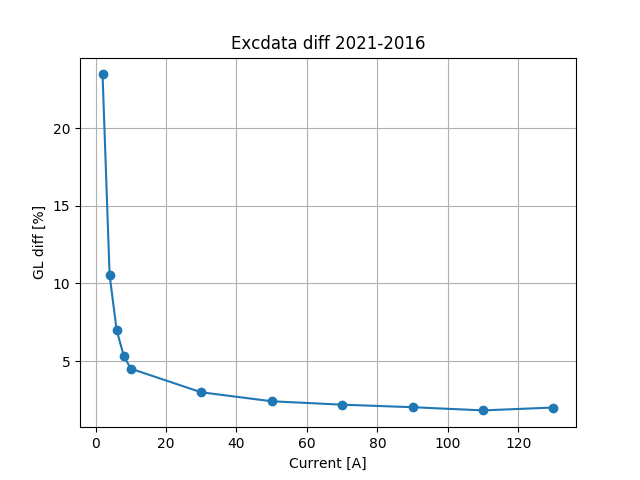
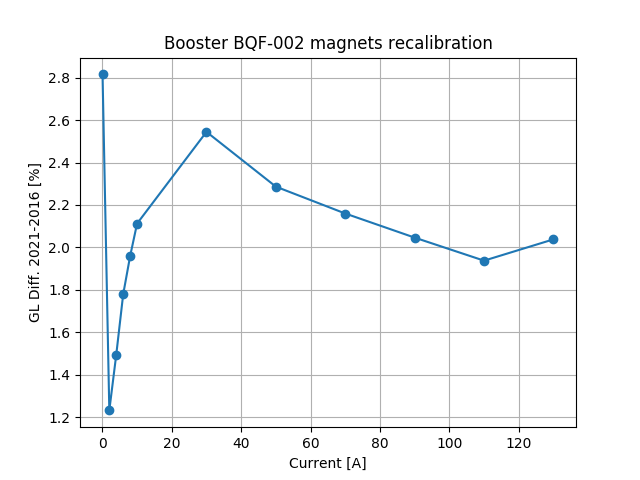
Update analysis of recalibration data

diff --git a/model-06/measurement/magnetic/rotcoil/BQF-002/after_recalibration/run.py b/model-06/measurement/magnetic/rotcoil/BQF-002/after_recalibration/run.py
@@ -4,250 +4,58 @@ import matplotlib.pyplot as plt
 import numpy as np
 
 
-def excdata_diff():
+def correct_excdata(plot=True):
 
-    curr_2021 = np.array([
-        2.0, 4.0, 6.0, 8.0, 10.0, 30.0, 50.0, 70.0, 90.0, 110.0, 130.0, 110.0, 90.0, 70.0, 50.0, 30.0, 10.0, 8.0, 6.0, 4.0, 2.0, ])
+    currs = [0.05, 2, 4, 6, 8, 10, 30, 50, 70, 90, 110, 130]
 
-    m1_2021 = np.array([
-        -0.08626859, -0.1615623, -0.2376747, -0.3138991, -0.3904883, -1.162666, -1.931716, -2.698771, -3.458314, -4.205542, -4.934042, -4.228508, -3.479206, -2.716953, -1.948282, -1.177281, -0.3995486, -0.3218263, -0.2444612, -0.1669741, -0.08989353, ])
+    c1_2021 = np.array([0.0111, 2.0104, 4.0073, 6.0113, 8.0124, 10.0126, 30.0149, 50.016, 70.0169, 90.0138, 110.0141, 130.0187, 110.0145, 90.0139, 70.017, 50.0159, 30.0148, 10.0128, 8.0122, 6.0117, 4.0082, 2.0104, 0.0111, ])
+    m1_2021 = np.array([-0.01215491, -0.08626859, -0.1615623, -0.2376747, -0.3138991, -0.3904883, -1.162666, -1.931716, -2.698771, -3.458314, -4.205542, -4.934042, -4.228508, -3.479206, -2.716953, -1.948282, -1.177281, -0.3995486, -0.3218263, -0.2444612, -0.1669741, -0.08989353, -0.01285774, ])
+    c2_2021 = np.array([0.0113, 2.0106, 4.0072, 6.0116, 8.0124, 10.0125, 30.0148, 50.016, 70.0169, 90.014, 110.0143, 130.0189, 110.0146, 90.0135, 70.0168, 50.0158, 30.0148, 10.0125, 8.0125, 6.0118, 4.0076, 2.0104, 0.011, ])
+    m2_2021 = np.array([-0.01198259, -0.08654086, -0.1615185, -0.23749, -0.3139278, -0.3904646, -1.162067, -1.930927, -2.698374, -3.458122, -4.205655, -4.934025, -4.228286, -3.478934, -2.71647, -1.947923, -1.177429, -0.3995107, -0.3221678, -0.2444059, -0.166983, -0.09002602, -0.01288148, ])
+    c3_2021 = np.array([0.0111, 2.0104, 4.0072, 6.0118, 8.0124, 10.0125, 30.015, 50.016, 70.017, 90.014, 110.0142, 130.0188, 110.0147, 90.0139, 70.017, 50.016, 30.015, 10.0125, 8.0127, 6.0118, 4.0081, 2.0104, 0.011, ])
+    m3_2021 = np.array([-0.01200303, -0.08626319, -0.1615332, -0.2376098, -0.3138666, -0.3903503, -1.162026, -1.931152, -2.698185, -3.457997, -4.205531, -4.934032, -4.228328, -3.478939, -2.716578, -1.947865, -1.177005, -0.3995779, -0.3219796, -0.2443882, -0.166969, -0.08983911, -0.01286573, ])
+    # c_2021_up = np.hstack([c1_2021[:11], c2_2021[:11], c3_2021[:11]])
+    # m_2021_up = np.hstack([m1_2021[:11], m2_2021[:11], m3_2021[:11]])
+    # zipped = zip(c_2021_up, m_2021_up)
+    # zipped = sorted(zipped)
+    # c_2021_up, m_2021_up = zip(*zipped)
+    # m_2021_up = np.interp(currs, c_2021_up, m_2021_up)
+    c_2021_up = (c1_2021[:12] + c2_2021[:12] + c3_2021[:12])/3
+    m_2021_up = (m1_2021[:12] + m2_2021[:12] + m3_2021[:12])/3
 
-    m2_2021 = np.array([
-        -0.08626319, -0.1615332, -0.2376098, -0.3138666, -0.3903503, -1.162026, -1.931152, -2.698185, -3.457997, -4.205531, -4.934032, -4.228328, -3.478939, -2.716578, -1.947865, -1.177005, -0.3995779, -0.3219796, -0.2443882, -0.166969, -0.08983911, ])
+    c1_2016 = np.array([0.0078, 2.0059, 4.0043, 6.002, 8.0009, 9.9987, 29.9963, 49.9984, 70.0021, 90.0021, 110.0031, 130.0002, 110.0013, 89.9997, 69.9996, 49.9967, 29.9961, 9.9977, 7.9996, 6.0006, 4.0027, 2.0038, 0.0043, ])
+    m1_2016 = np.array([-0.01179837, -0.08538105, -0.1592165, -0.2334934, -0.3079047, -0.3823842, -1.133442, -1.888187, -2.641512, -3.388832, -4.125697, -4.835475, -4.143477, -3.406367, -2.657592, -1.903832, -1.147642, -0.3911246, -0.315505, -0.2399524, -0.1643784, -0.08885089, -0.01320705, ])
+    c2_2016 = np.array([0.0031, 2.0025, 4.0014, 5.9997, 7.9991, 9.9972, 29.9956, 49.9985, 70.0026, 90.0036, 110.005, 130.0036, 110.0036, 90.0013, 70.0002, 49.9971, 29.9957, 9.997, 7.9991, 5.9999, 4.002, 2.003, 0.0039, ])
+    m2_2016 = np.array([-0.01163553, -0.08523227, -0.1591025, -0.2333829, -0.3078286, -0.3823313, -1.133381, -1.888001, -2.641273, -3.388772, -4.125574, -4.835493, -4.143462, -3.406291, -2.657515, -1.9038, -1.147602, -0.3910514, -0.3155562, -0.239949, -0.1643499, -0.08880532, -0.01322885, ])
+    # c_2016_up = np.hstack([c1_2016[:11], c2_2016[:11]])
+    # m_2016_up = np.hstack([m1_2016[:11], m2_2016[:11]])
+    # zipped = zip(c_2016_up, m_2016_up)
+    # zipped = sorted(zipped)
+    # c_2016_up, m_2016_up = zip(*zipped)
+    # m_2016_up = np.interp(currs, c_2016_up, m_2016_up)
+    c_2016_up = (c1_2016[:12] + c2_2016[:12])/2
+    m_2016_up = (m1_2016[:12] + m2_2016[:12])/2
 
-    m3_2021 = np.array([
-        -0.08626859, -0.1615623, -0.2376747, -0.3138991, -0.3904883, -1.162666, -1.931716, -2.698771, -3.458314, -4.205542, -4.934042, -4.228508, -3.479206, -2.716953, -1.948282, -1.177281, -0.3995486, -0.3218263, -0.2444612, -0.1669741, -0.08989353, ])
+    diff = 100 * (m_2021_up - m_2016_up) / m_2016_up
 
-    curr_2016 = np.array([
-        10.0, 20.0, 30.0, 40.0, 50.0, 60.0, 70.0, 80.0, 90.0, 100.0, 110.0, 100.0, 90.0, 80.0, 70.0, 60.0, 50.0, 40.0, 30.0, 20.0, 10.0, ])
-    m1_2016 = np.array([
-        -0.37358, -0.7509, -1.12889, -1.5071, -1.88609, -2.26437, -2.6408, -3.01586, -3.38976, -3.76163, -4.13051, -3.77535, -3.40789, -3.03603, -2.66175, -2.27666, -1.90709, -1.52755, -1.14851, -0.76951, -0.39017, ])
-    m2_2016 = np.array([
-        -0.37368, -0.75101, -1.12913, -1.50724, -1.88616, -2.26425, -2.64065, -3.01582, -3.38962, -3.76149, -4.13044, -3.77528, -3.40784, -3.03606, -2.6617, -2.28551, -1.90709, -1.52754, -1.1485, -0.76943, -0.39019, ])
-    m3_2016 = np.array([
-        -0.37359, -0.75089, -1.12885, -1.50706, -1.8861, -2.26443, -2.6408, -3.01588, -3.38974, -3.7616, -4.13043, -3.77522, -3.40793, -3.03605, -2.66188, -2.28572, -1.90716, -1.52751, -1.14853, -0.76955, -0.39023, ])
+    print(currs)
+    print(c_2016_up)
+    print(m_2016_up)
+    print(m_2021_up)
 
+    for i in range(len(currs)):
+        print('{:+08.2f}  {:+.6e} {:+.6e}  {:+06.2}'.format(currs[i], m_2016_up[i], m_2021_up[i], diff[i]))
 
-
-
-    avg_2016 = (m1_2016 + m2_2016 + m3_2016)/3
-    poly_2016 = np.polyfit(curr_2016, avg_2016, 1)
-    lfit_2016 = np.polyval(poly_2016, curr_2016)
-
-    m1_2016_diff = 100*(m1_2016 - lfit_2016)/lfit_2016
-    m2_2016_diff = 100*(m2_2016 - lfit_2016)/lfit_2016
-    m3_2016_diff = 100*(m3_2016 - lfit_2016)/lfit_2016
-
-    avg_2021 = (m1_2021 + m2_2021 + m3_2021)/3
-    poly_2021 = np.polyfit(curr_2021, avg_2021, 1)
-    lfit_2021 = np.polyval(poly_2021, curr_2021)
-
-    m1_2021_diff = 100*(m1_2021 - lfit_2021)/lfit_2021
-    m2_2021_diff = 100*(m2_2021 - lfit_2021)/lfit_2021
-    m3_2021_diff = 100*(m3_2021 - lfit_2021)/lfit_2021
-
-    avg_2021 = (m1_2021 + m2_2021 + m3_2021)/3
-    poly_2021 = np.polyfit(curr_2021, avg_2021, 1)
-
-    m1_2021_diff = 100*(m1_2021 - lfit_2021)/lfit_2021
-    m2_2021_diff = 100*(m2_2021 - lfit_2021)/lfit_2021
-    m3_2021_diff = 100*(m3_2021 - lfit_2021)/lfit_2021
-
-    plt.plot(curr_2016, m1_2016_diff, 'ro-', label='2016')
-    plt.plot(curr_2016, m2_2016_diff, 'ro-')
-    plt.plot(curr_2016, m3_2016_diff, 'ro-')
-
-    plt.plot(curr_2021, m1_2021_diff, 'bo-', label='2021')
-    plt.plot(curr_2021, m2_2021_diff, 'bo-')
-    plt.plot(curr_2021, m3_2021_diff, 'bo-')
-
-    plt.xlabel('Current [A]')
-    plt.ylabel('(GL - <GL>)/<GL> [%]')
-    plt.legend()
-    plt.title('Hysteresis')
-    plt.grid()
-    plt.ylim([-6, 2])
-    plt.show()
-
-    curr_2016 = curr_2016[:11]
-    m1_2016 = m1_2016[:11]
-    m2_2016 = m2_2016[:11]
-    m3_2016 = m3_2016[:11]
-
-    curr_2021 = curr_2021[:11]
-    m1_2021 = m1_2021[:11]
-    m2_2021 = m2_2021[:11]
-    m3_2021 = m3_2021[:11]
-
-    avg_2016 = (m1_2016 + m2_2016 + m3_2016)/3
-    avg_2021 = (m1_2021 + m2_2021 + m3_2021)/3
-
-    poly = np.polyfit(curr_2016, avg_2016, 6)
-    fit_1 = np.polyval(poly, curr_2016)
-    fit_2 = np.polyval(poly, curr_2021)
-    plt.plot(curr_2016, 100*(fit_1 - avg_2016)/avg_2016)
-    plt.xlabel('Current [A]')
-    plt.ylabel('Error [%]')
-    plt.title('Poly Fitting Error 2016 data')
-    plt.show()
-
-    # plt.plot(curr_2021, fit_2)
-    # plt.plot(curr_2021, avg_2021)
-    diff = 100*(avg_2021 - fit_2)/fit_2
-    plt.plot(curr_2021, diff, '-o')
-    plt.xlabel('Current [A]')
-    plt.ylabel('GL diff [%]')
-    plt.title('Excdata diff 2021-2016')
-    plt.grid()
-    plt.show()
-
-
-def read_file(fname):
-    with open(fname,'r', encoding="ISO-8859-1") as fp:
-        lines = fp.readlines()
-
-    harms, mpoles = [], []
-    flag = False
-    for line in lines:
-        if flag and not line.startswith('magnetic_center'):
-            line = line.strip()
-            if line:
-                words = line.split()
-                harm, mpole = int(words[0]), words[1:]
-                mpoles.append(mpole[0])
-                mpoles.append(mpole[2])
-                harms.append(harm)
-        if line.startswith('n\t'):
-            flag = True
-        if line.startswith('magnetic_center'):
-            break
-    return harms, mpoles
-
-
-def get_meas(fnames):
-
-    norms, skews, currs = [], [], []
-    for fname in fnames:
-        _, curr = fname.split('BOB_')
-        curr, _ = curr.split('A_')
-        curr = float(curr)
-        harms, mpoles = read_file(fname)
-        norm = [float(v) for v in mpoles[0::2]]
-        skew = [float(v) for v in mpoles[1::2]]
-        norms.append(norm)
-        skews.append(skew)
-        currs.append(curr)
-    norms = np.array(norms)
-    skews = np.array(skews)
-    return currs, norms, skews
-
-
-def generate_new_excdata():
-
-    fnames_m1 = [
-        './data/M1/BQF-002_Q_BOB_002.0A_210129_141546.dat',
-        './data/M1/BQF-002_Q_BOB_004.0A_210129_141624.dat',
-        './data/M1/BQF-002_Q_BOB_006.0A_210129_141703.dat',
-        './data/M1/BQF-002_Q_BOB_008.0A_210129_141741.dat',
-        './data/M1/BQF-002_Q_BOB_010.0A_210129_141819.dat',
-        './data/M1/BQF-002_Q_BOB_030.0A_210129_141900.dat',
-        './data/M1/BQF-002_Q_BOB_050.0A_210129_141940.dat',
-        './data/M1/BQF-002_Q_BOB_070.0A_210129_142022.dat',
-        './data/M1/BQF-002_Q_BOB_090.0A_210129_142102.dat',
-        './data/M1/BQF-002_Q_BOB_110.0A_210129_142142.dat',
-        './data/M1/BQF-002_Q_BOB_130.0A_210129_142223.dat',]
-
-    fnames_m2 = [
-        './data/M2/BQF-002_Q_BOB_002.0A_210129_145403.dat',
-        './data/M2/BQF-002_Q_BOB_004.0A_210129_145441.dat',
-        './data/M2/BQF-002_Q_BOB_006.0A_210129_145520.dat',
-        './data/M2/BQF-002_Q_BOB_008.0A_210129_145558.dat',
-        './data/M2/BQF-002_Q_BOB_010.0A_210129_145637.dat',
-        './data/M2/BQF-002_Q_BOB_030.0A_210129_145718.dat',
-        './data/M2/BQF-002_Q_BOB_050.0A_210129_145759.dat',
-        './data/M2/BQF-002_Q_BOB_070.0A_210129_145840.dat',
-        './data/M2/BQF-002_Q_BOB_090.0A_210129_145920.dat',
-        './data/M2/BQF-002_Q_BOB_110.0A_210129_150000.dat',
-        './data/M2/BQF-002_Q_BOB_130.0A_210129_150041.dat',]
-
-    fnames_m3 = [
-        './data/M3/BQF-002_Q_BOB_002.0A_210129_152008.dat',
-        './data/M3/BQF-002_Q_BOB_004.0A_210129_152046.dat',
-        './data/M3/BQF-002_Q_BOB_006.0A_210129_152124.dat',
-        './data/M3/BQF-002_Q_BOB_008.0A_210129_152203.dat',
-        './data/M3/BQF-002_Q_BOB_010.0A_210129_152241.dat',
-        './data/M3/BQF-002_Q_BOB_030.0A_210129_152322.dat',
-        './data/M3/BQF-002_Q_BOB_050.0A_210129_152403.dat',
-        './data/M3/BQF-002_Q_BOB_070.0A_210129_152444.dat',
-        './data/M3/BQF-002_Q_BOB_090.0A_210129_152525.dat',
-        './data/M3/BQF-002_Q_BOB_110.0A_210129_152606.dat',
-        './data/M3/BQF-002_Q_BOB_130.0A_210129_152647.dat',]
-
-
-    currs, norms1, skews1 = get_meas(fnames_m1)
-    currs, norms2, skews2 = get_meas(fnames_m2)
-    currs, norms3, skews3 = get_meas(fnames_m3)
-
-    max_harm = 12
-    norms = (norms1 + norms2 + norms3) / 3
-    skews = (skews1 + skews2 + skews3) / 3
-
-    for i in range(norms.shape[0]-1,-1,-1):
-        print('{:+08.2f}  '.format(-currs[i]), end='')
-        for j in range(norms.shape[1]):
-            if j < max_harm:
-                print('{:+.6e} {:+.6e}  '.format(-norms[i, j], -skews[i, j]), end='')
-        print()
-    for i in range(norms.shape[0]):
-        print('{:+08.2f}  '.format(currs[i]), end='')
-        for j in range(norms.shape[1]):
-            if j < max_harm:
-                print('{:+.6e} {:+.6e}  '.format(norms[i, j], skews[i, j]), end='')
-        print()
-
-
-def correct_multipoles():
-
-    curr_2021 = np.array([
-        2.0, 4.0, 6.0, 8.0, 10.0, 30.0, 50.0, 70.0, 90.0, 110.0, 130.0, 110.0, 90.0, 70.0, 50.0, 30.0, 10.0, 8.0, 6.0, 4.0, 2.0, ])
-
-    m1_2021 = np.array([
-        -0.08626859, -0.1615623, -0.2376747, -0.3138991, -0.3904883, -1.162666, -1.931716, -2.698771, -3.458314, -4.205542, -4.934042, -4.228508, -3.479206, -2.716953, -1.948282, -1.177281, -0.3995486, -0.3218263, -0.2444612, -0.1669741, -0.08989353, ])
-
-    m2_2021 = np.array([
-        -0.08626319, -0.1615332, -0.2376098, -0.3138666, -0.3903503, -1.162026, -1.931152, -2.698185, -3.457997, -4.205531, -4.934032, -4.228328, -3.478939, -2.716578, -1.947865, -1.177005, -0.3995779, -0.3219796, -0.2443882, -0.166969, -0.08983911, ])
-
-    m3_2021 = np.array([
-        -0.08626859, -0.1615623, -0.2376747, -0.3138991, -0.3904883, -1.162666, -1.931716, -2.698771, -3.458314, -4.205542, -4.934042, -4.228508, -3.479206, -2.716953, -1.948282, -1.177281, -0.3995486, -0.3218263, -0.2444612, -0.1669741, -0.08989353, ])
-
-    curr_2016 = np.array([
-        10.0, 20.0, 30.0, 40.0, 50.0, 60.0, 70.0, 80.0, 90.0, 100.0, 110.0, 100.0, 90.0, 80.0, 70.0, 60.0, 50.0, 40.0, 30.0, 20.0, 10.0, ])
-    m1_2016 = np.array([
-        -0.37358, -0.7509, -1.12889, -1.5071, -1.88609, -2.26437, -2.6408, -3.01586, -3.38976, -3.76163, -4.13051, -3.77535, -3.40789, -3.03603, -2.66175, -2.27666, -1.90709, -1.52755, -1.14851, -0.76951, -0.39017, ])
-    m2_2016 = np.array([
-        -0.37368, -0.75101, -1.12913, -1.50724, -1.88616, -2.26425, -2.64065, -3.01582, -3.38962, -3.76149, -4.13044, -3.77528, -3.40784, -3.03606, -2.6617, -2.28551, -1.90709, -1.52754, -1.1485, -0.76943, -0.39019, ])
-    m3_2016 = np.array([
-        -0.37359, -0.75089, -1.12885, -1.50706, -1.8861, -2.26443, -2.6408, -3.01588, -3.38974, -3.7616, -4.13043, -3.77522, -3.40793, -3.03605, -2.66188, -2.28572, -1.90716, -1.52751, -1.14853, -0.76955, -0.39023, ])
-
-    curr_2016 = curr_2016[:11]
-    m1_2016 = m1_2016[:11]
-    m2_2016 = m2_2016[:11]
-    m3_2016 = m3_2016[:11]
-
-    curr_2021 = curr_2021[:11]
-    m1_2021 = m1_2021[:11]
-    m2_2021 = m2_2021[:11]
-    m3_2021 = m3_2021[:11]
-
-    avg_2016 = (m1_2016 + m2_2016 + m3_2016)/3
-    avg_2021 = (m1_2021 + m2_2021 + m3_2021)/3
-
-    poly = np.polyfit(curr_2016, avg_2016, 6)
-    fit_2 = np.polyval(poly, curr_2021)
-    diff = 100*(avg_2021 - fit_2)/fit_2
-
-    print(curr_2021)
+    print(currs)
     print(diff)
+
+    if plot:
+        plt.plot(currs, diff, 'o-')
+        plt.xlabel('Current [A]')
+        plt.ylabel('GL Diff. 2021-2016 [%]')
+        plt.title('Booster BQF-002 magnets recalibration')
+        plt.grid()
+        plt.show()
 
     excdata = np.array([
         [-0130.00,  +4.975413E-05, -1.251647e-04,  +4.825073e+00, -4.370731e-03,  -1.041956e-02, -1.667820e-01,  -1.111587e+00, +1.740654e+00,  -2.688518e+01, +9.932553e+00,  -6.057332e+04, -5.515321e+02,  +1.233434e+05, -7.827446e+02,  -2.309567e+06, -5.601336e+06,  -2.089645e+08, +8.768356e+07,  +6.099797e+11, -5.473266e+09,  +1.830748e+11, -5.842078e+11,  +5.115496e+12, +1.575038e+13, ],
@@ -261,7 +69,7 @@ def correct_multipoles():
         [-0006.00,  +5.158089E-06, -7.184020e-06,  +2.314631e-01, +1.939842e-04,  -2.425587e-03, -8.789633e-03,  -1.128920e-01, +5.333088e-02,  -2.017947e+00, +3.801416e-03,  -3.376908e+03, -5.030495e+01,  +7.138365e+03, -2.811232e+03,  -2.111745e+04, -3.449331e+05,  -2.170232e+07, -3.837938e+06,  +3.016023e+10, -1.054210e+08,  -2.008309e+09, -6.986779e+10,  +6.485781e+11, -4.341895e+11, ],
         [-0004.00,  +4.252322E-06, -5.179476e-06,  +1.569668e-01, -1.420953e-04,  -2.400881e-03, -6.383120e-03,  -9.973878e-02, +3.142826e-02,  -9.259937e-01, -2.957493e-01,  -2.461973e+03, -2.658068e+01,  +4.685728e+03, -4.200395e+02,  -1.017639e+05, -4.019085e+05,  -4.447178e+06, -5.005527e+06,  +2.084676e+10, -3.665317e+08,  -2.282927e+10, -3.881456e+10,  -1.687947e+12, -1.921884e+12, ],
         [-0002.00,  +3.267350E-06, -3.151156e-06,  +8.288950e-02, -7.282650e-05,  -2.512963e-03, -4.154182e-03,  -6.796411e-02, +2.008410e-06,  -1.157945e+00, -1.107516e+00,  -1.703330e+03, -1.258265e+01,  +6.723557e+03, +7.205065e+02,  +9.632571e+04, -3.699185e+05,  -6.634481e+06, -1.923343e+07,  +9.729464e+09, +4.933769e+08,  -4.632190e+10, +1.696671e+09,  +7.928116e+11, -5.525866e+12, ],
-        [+0000.00,  +0.000000e+00, +0.000000e+00,  +0.000000e+00, +0.000000e+00,  +0.000000e+00, +0.000000e+00,  +0.000000e+00, +0.000000e+00,  +0.000000e+00, +0.000000e+00,  +0.000000e+00, +0.000000e+00,  +0.000000e+00, +0.000000e+00,  +0.000000e+00, +0.000000e+00,  +0.000000e+00, +0.000000e+00,  +0.000000e+00, +0.000000e+00,  +0.000000e+00, +0.000000e+00,  +0.000000e+00, +0.000000e+00, ],
+        # [+0000.00,  +0.000000e+00, +0.000000e+00,  +0.000000e+00, +0.000000e+00,  +0.000000e+00, +0.000000e+00,  +0.000000e+00, +0.000000e+00,  +0.000000e+00, +0.000000e+00,  +0.000000e+00, +0.000000e+00,  +0.000000e+00, +0.000000e+00,  +0.000000e+00, +0.000000e+00,  +0.000000e+00, +0.000000e+00,  +0.000000e+00, +0.000000e+00,  +0.000000e+00, +0.000000e+00,  +0.000000e+00, +0.000000e+00, ],
         [+0002.00,  -3.267350e-06, +3.151156e-06,  -8.288950e-02, +7.282650e-05,  +2.512963e-03, +4.154182e-03,  +6.796411e-02, -2.008410e-06,  +1.157945e+00, +1.107516e+00,  +1.703330e+03, +1.258265e+01,  -6.723557e+03, -7.205065e+02,  -9.632571e+04, +3.699185e+05,  +6.634481e+06, +1.923343e+07,  -9.729464e+09, -4.933769e+08,  +4.632190e+10, -1.696671e+09,  -7.928116e+11, +5.525866e+12, ],
         [+0004.00,  -4.252322e-06, +5.179476e-06,  -1.569668e-01, +1.420953e-04,  +2.400881e-03, +6.383120e-03,  +9.973878e-02, -3.142826e-02,  +9.259937e-01, +2.957493e-01,  +2.461973e+03, +2.658068e+01,  -4.685728e+03, +4.200395e+02,  +1.017639e+05, +4.019085e+05,  +4.447178e+06, +5.005527e+06,  -2.084676e+10, +3.665317e+08,  +2.282927e+10, +3.881456e+10,  +1.687947e+12, +1.921884e+12, ],
         [+0006.00,  -5.158089e-06, +7.184020e-06,  -2.314631e-01, -1.939842e-04,  +2.425587e-03, +8.789633e-03,  +1.128920e-01, -5.333088e-02,  +2.017947e+00, -3.801416e-03,  +3.376908e+03, +5.030495e+01,  -7.138365e+03, +2.811232e+03,  +2.111745e+04, +3.449331e+05,  +2.170232e+07, +3.837938e+06,  -3.016023e+10, +1.054210e+08,  +2.008309e+09, +6.986779e+10,  -6.485781e+11, +4.341895e+11, ],
@@ -275,16 +83,16 @@ def correct_multipoles():
         [+0130.00,  -4.975413e-05, +1.251647e-04,  -4.825073e+00, +4.370731e-03,  +1.041956e-02, +1.667820e-01,  +1.111587e+00, -1.740654e+00,  +2.688518e+01, -9.932553e+00,  +6.057332e+04, +5.515321e+02,  -1.233434e+05, +7.827446e+02,  +2.309567e+06, +5.601336e+06,  +2.089645e+08, -8.768356e+07,  -6.099797e+11, +5.473266e+09,  -1.830748e+11, +5.842078e+11,  -5.115496e+12, -1.575038e+13, ],
     ])
 
-
-    for line in excdata:
-        curr = line[0]
-        mpol = line[1:]
-        correction = np.interp(abs(curr), curr_2021, diff)
-        mpol *= 1+correction/100
+    for datum in excdata:
+        curr, *mpoles = datum
+        mpoles = np.array(mpoles)
+        corr = 1 + np.interp(abs(curr), currs, diff)/100
+        mpoles *= corr
+        # print(curr, corr, mpoles)
         print('{:+08.2f}  '.format(curr), end='')
-        for j in range(len(mpol)//2):
-            print('{:+.6e} {:+.6e}  '.format(mpol[2*j], mpol[2*j+1]), end='')
+        for i in range(len(mpoles)//2):
+            print('{:+.6e} {:+.6e}  '.format(mpoles[2*i+0], mpoles[2*i+1]), end='')
         print()
 
 
-correct_multipoles()
+correct_excdata(plot=True)
